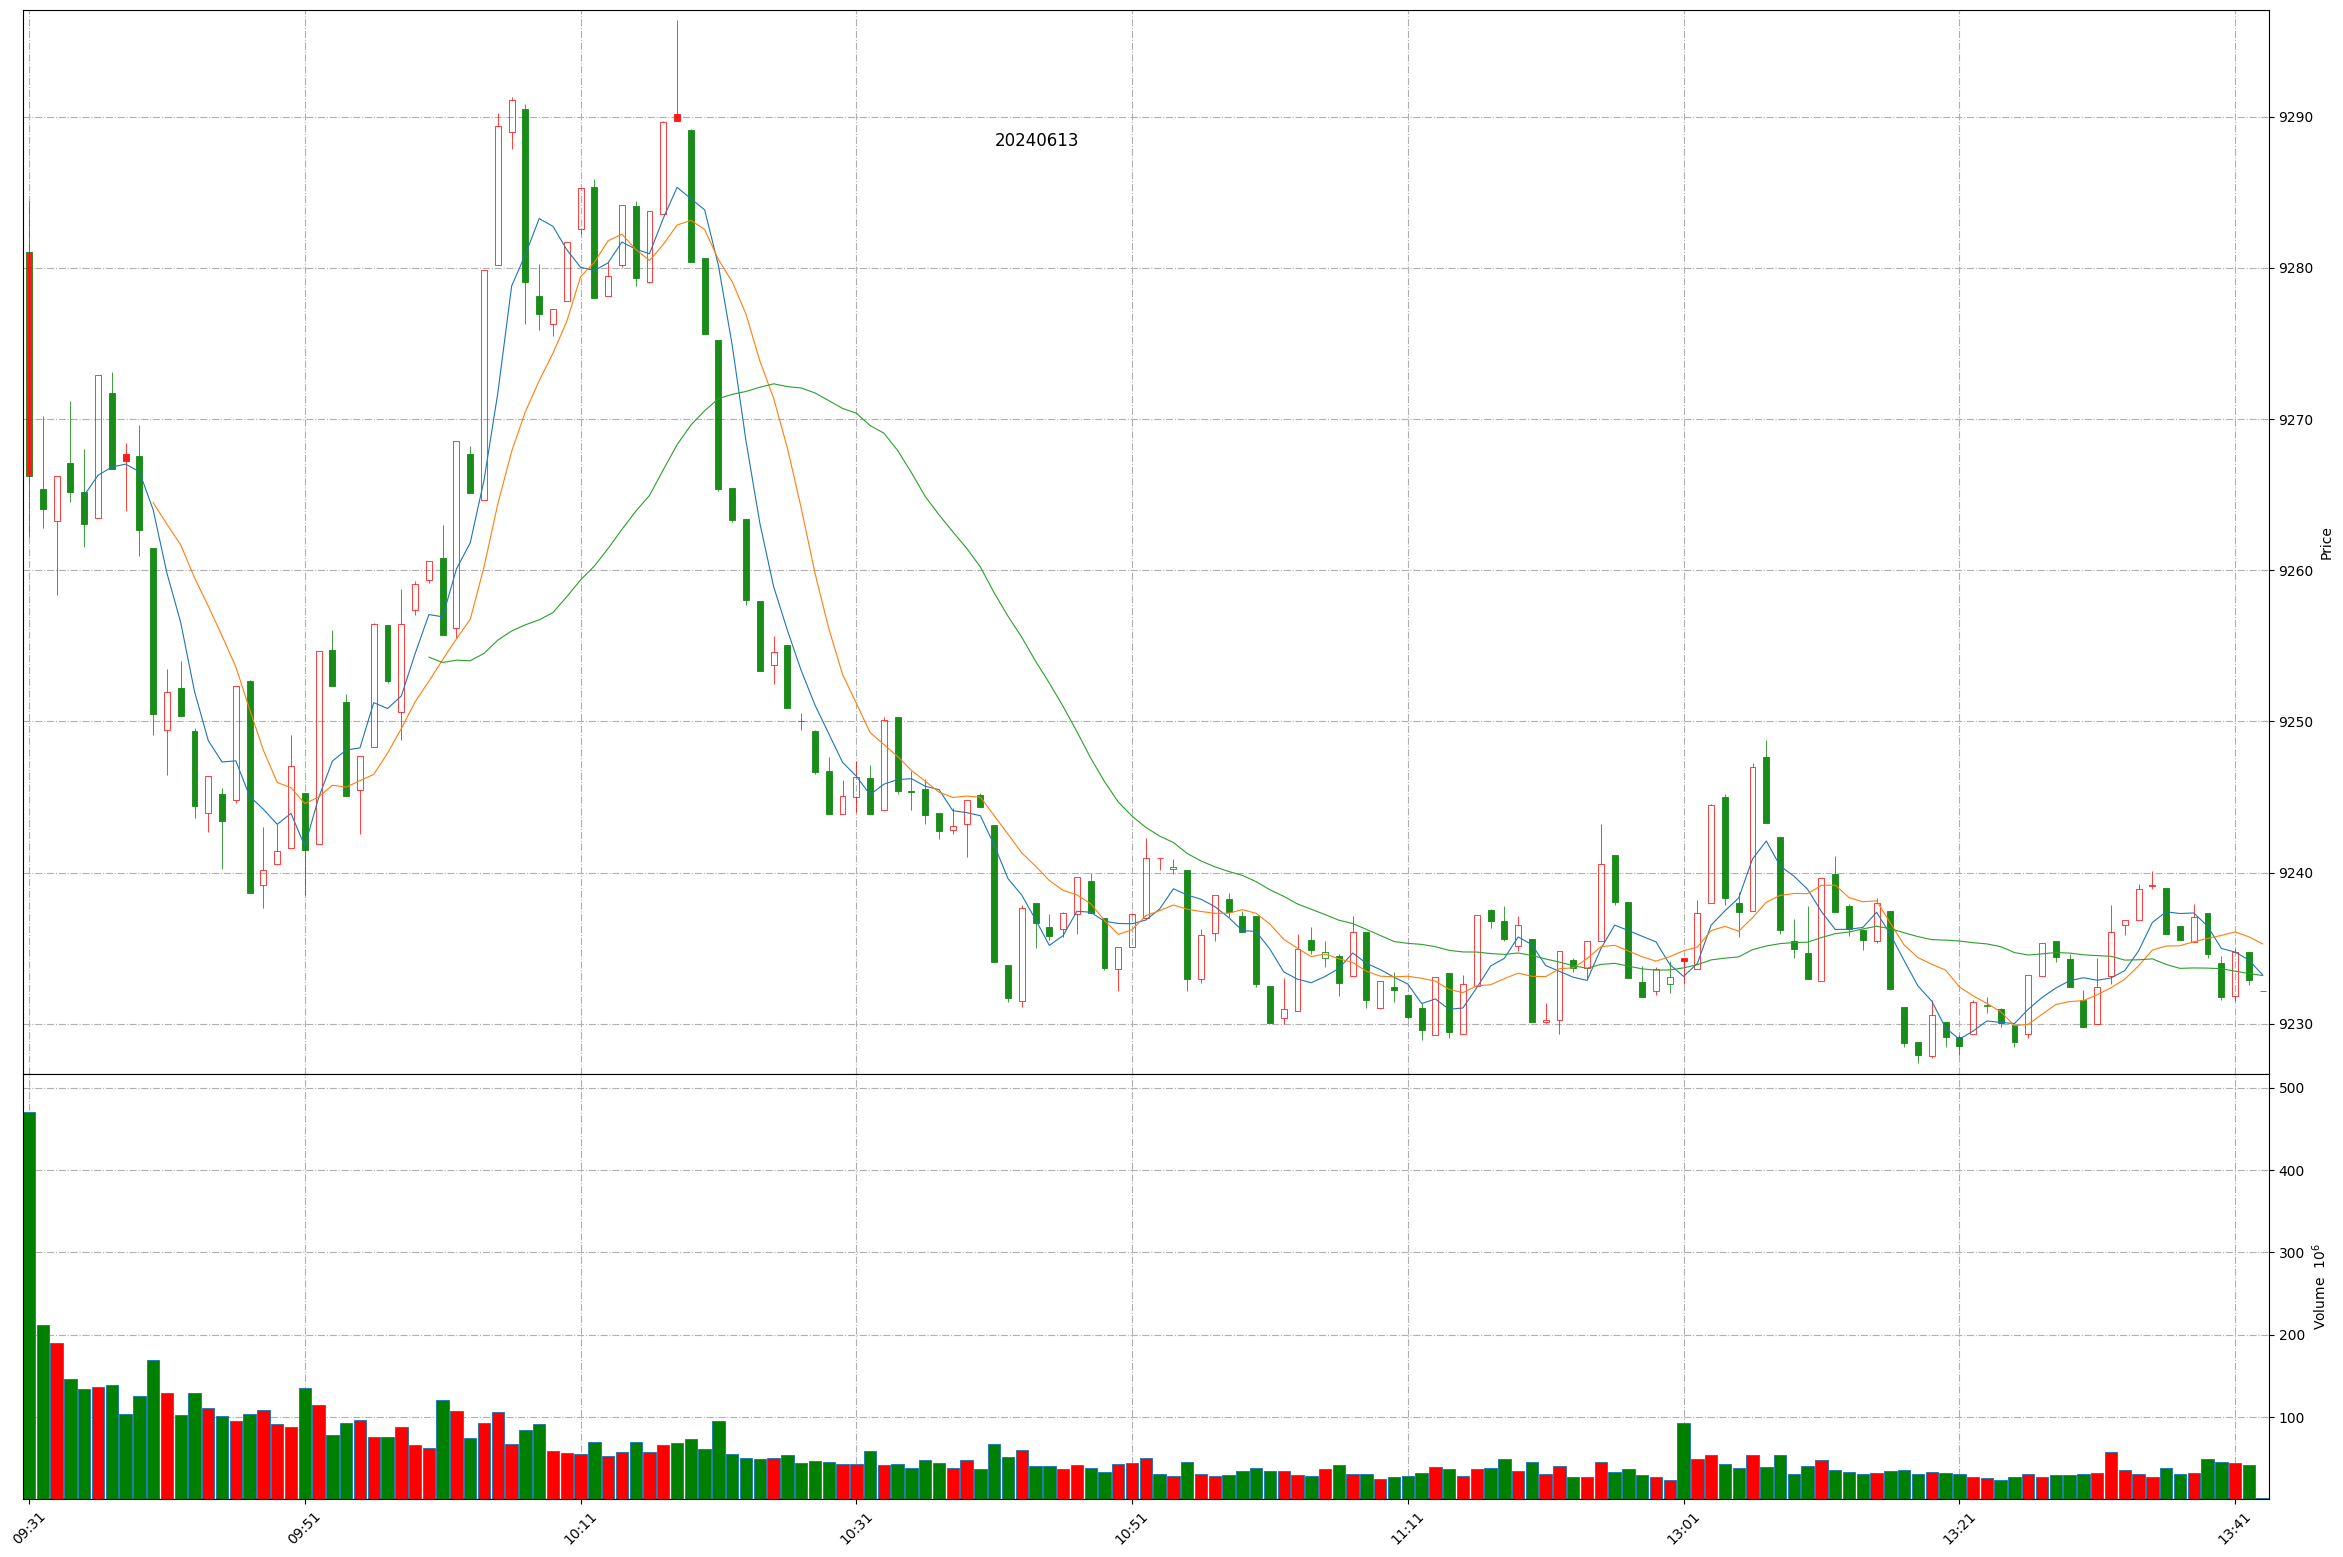
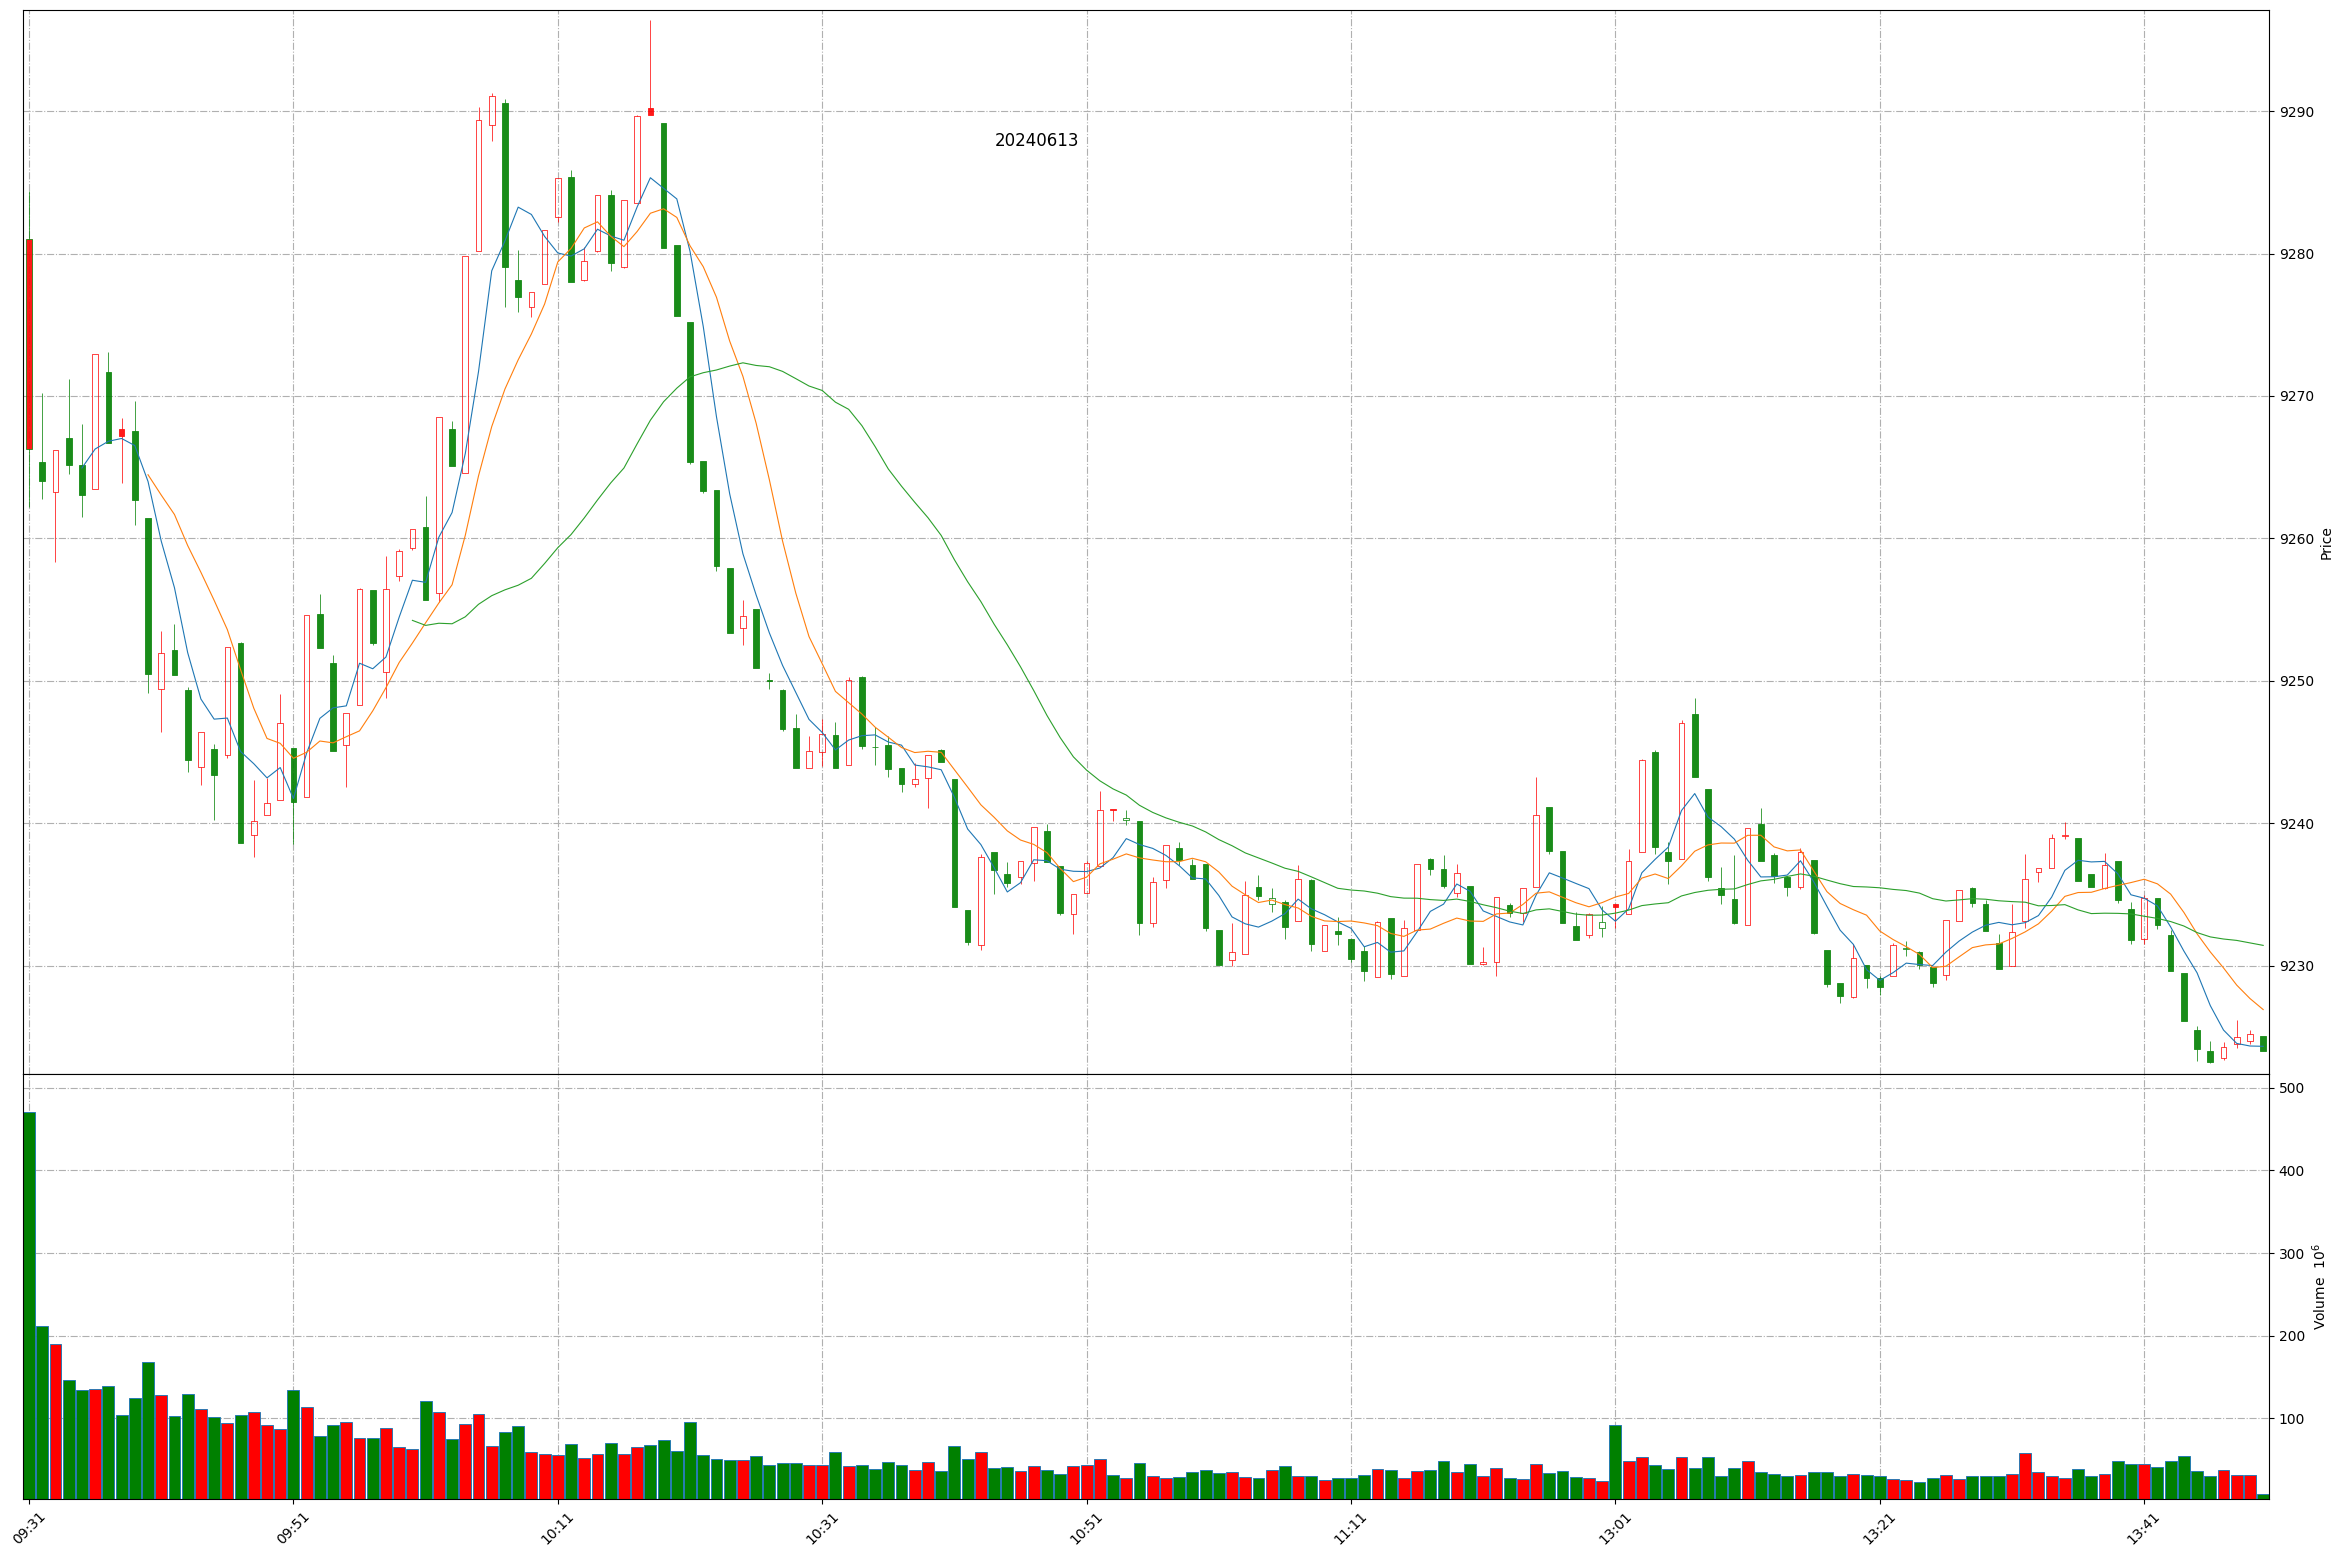
Github action update at 2024-06-13 13:49:33.

diff --git a/README.md b/README.md
@@ -1,11 +1,11 @@
 
 # Daily-A-share-market-quotes 每日 A 股指数（5min 更新）- 20240613
 
-### 上证指数 20240613 13:42
+### 上证指数 20240613 13:49
 ![](./fig/2024/6/20240613-sh000001.png)
 
-### 深证成指 20240613 13:42
+### 深证成指 20240613 13:49
 ![](./fig/2024/6/20240613-sz399001.png)
 
-### 北证50 20240613 13:42
+### 北证50 20240613 13:49
 ![](./fig/2024/6/20240613-bj899050.png)
